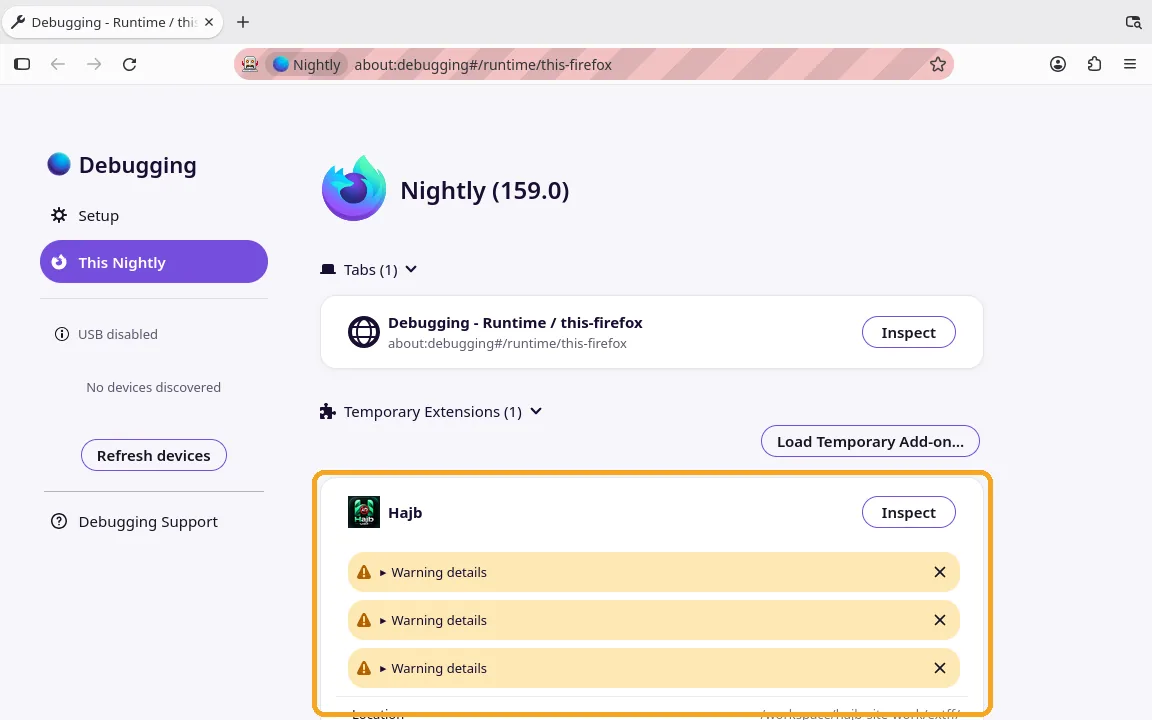
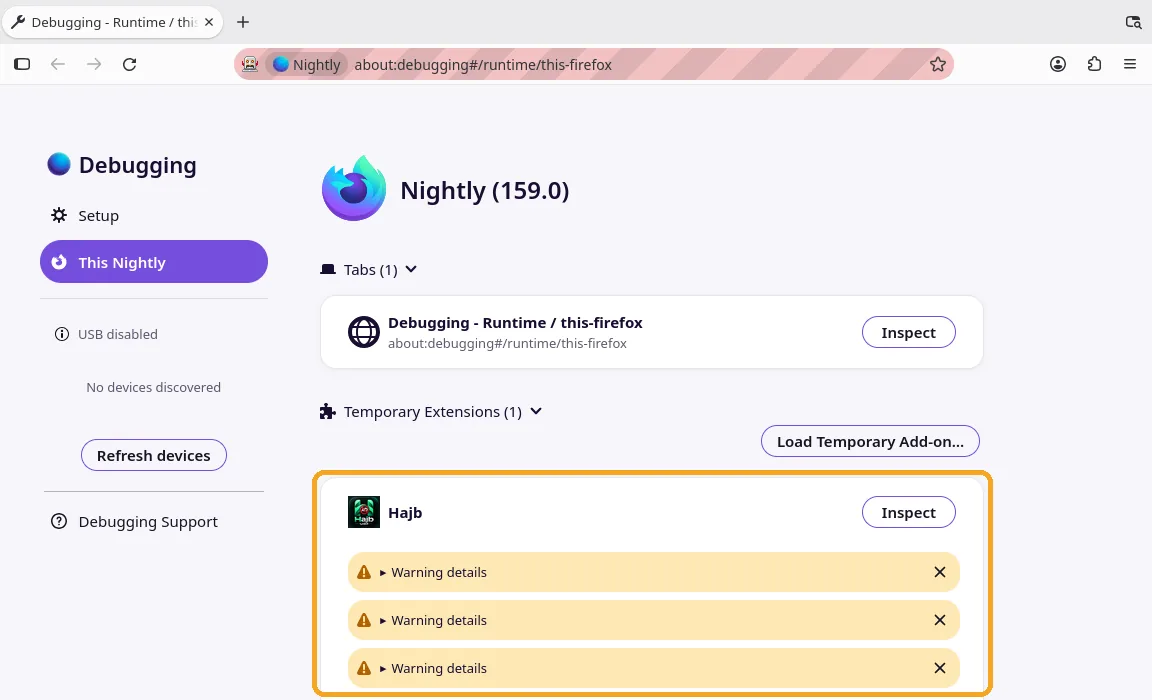
Crop Firefox shot, ignore pycache

diff --git a/public/index.html b/public/index.html
@@ -101,7 +101,7 @@
   <div class="before"><h3>قبل أن تبدأ</h3><ol><li>حمّل الملف المناسب من الأعلى.</li><li>للمتصفحات المبنية على Chromium: فكّ ضغط ملف zip، فيظهر مجلد اسمه <code>hajb</code>.</li><li>انقل المجلد إلى مكان ثابت مثل «المستندات». إذا حذفته أو نقلته لاحقًا، تتوقف الإضافة.</li></ol></div>
   <div class="tabs" data-tabs>
    <div class="tablist" role="tablist" aria-label="دليل التثبيت"><a role="tab" id="tab-chrome" href="#i-chrome" aria-controls="i-chrome">كروم</a><a role="tab" id="tab-edge" href="#i-edge" aria-controls="i-edge">إيدج</a><a role="tab" id="tab-brave" href="#i-brave" aria-controls="i-brave">بريف</a><a role="tab" id="tab-opera" href="#i-opera" aria-controls="i-opera">أوبرا</a><a role="tab" id="tab-vivaldi" href="#i-vivaldi" aria-controls="i-vivaldi">فيفالدي</a><a role="tab" id="tab-firefox" href="#i-firefox" aria-controls="i-firefox">فايرفوكس</a><a role="tab" id="tab-android" href="#i-android" aria-controls="i-android">أندرويد</a><a role="tab" id="tab-update" href="#i-update" aria-controls="i-update">التحديث والإزالة</a></div><section class="panel" id="i-chrome" role="tabpanel" aria-labelledby="tab-chrome"><h3>كروم</h3><ol class="steps"><li><h4>افتح صفحة الإضافات</h4><p>اكتب <code>chrome://extensions</code> في شريط العنوان واضغط Enter.</p></li><li><h4>فعّل وضع المطوّر</h4><p>اضغط مفتاح «وضع مطوّر البرامج» في أعلى الصفحة واتركه مفعّلًا.</p><figure class="ishot"><a href="/assets/img/install/chrome-devmode-ar.webp"><img src="/assets/img/install/chrome-devmode-ar.webp" alt="فعّل وضع المطوّر" width="1280" height="560" loading="lazy" decoding="async"></a></figure></li><li><h4>حمّل المجلد</h4><p>اضغط «تحميل إضافة تم فك حزمتها»، ثم اختر مجلد <code>hajb</code> الذي فيه ملف <code>manifest.json</code>.</p><figure class="ishot"><a href="/assets/img/install/chrome-load-ar.webp"><img src="/assets/img/install/chrome-load-ar.webp" alt="حمّل المجلد" width="1280" height="560" loading="lazy" decoding="async"></a></figure></li><li><h4>تأكّد من التثبيت</h4><p>تظهر بطاقة «Hajb 2.0.0». المفتاح الأزرق في أسفلها يعني أنها تعمل.</p><figure class="ishot"><a href="/assets/img/install/chrome-loaded-ar.webp"><img src="/assets/img/install/chrome-loaded-ar.webp" alt="تأكّد من التثبيت" width="1280" height="560" loading="lazy" decoding="async"></a></figure></li><li><h4>ثبّتها في شريط الأدوات</h4><p>اضغط أيقونة قطعة البازل بجانب شريط العنوان، ثم الدبوس بجانب Hajb. الاختصار Alt+Shift+H يخفي أي عنصر في الصفحة.</p></li></ol><p class="fine">لقطات من Chromium بالعربية. معرّف الإضافة (ID) سيختلف عندك، وهذا طبيعي.</p></section><section class="panel" id="i-edge" role="tabpanel" aria-labelledby="tab-edge"><h3>إيدج</h3><ol class="plain"><li>افتح <code>edge://extensions</code>.</li><li>فعّل «وضع المطور» من القائمة الجانبية (أسفلها على الحاسوب).</li><li>اضغط «تحميل الحزمة غير المضغوطة» واختر مجلد <code>hajb</code>.</li><li>فعّل الإضافة إن لم تكن مفعّلة، وثبّتها من زر الإضافات في الشريط.</li></ol><p class="fine">الصفحة تشبه صفحة كروم في اللقطات أعلاه، لكن مكان الأزرار وأسماءها قد يختلف قليلًا. لم نلتقط صورًا لهذا المتصفح. <a href="#i-chrome">كروم</a></p></section><section class="panel" id="i-brave" role="tabpanel" aria-labelledby="tab-brave"><h3>بريف</h3><ol class="plain"><li>افتح <code>brave://extensions</code>.</li><li>فعّل «Developer mode» في الأعلى.</li><li>اضغط «Load unpacked» واختر مجلد <code>hajb</code>.</li><li>يُفضَّل خفض مستوى Brave Shields في المواقع التي يتعارض فيها مع حاجب، أو تركه كما هو: الاثنان يعملان معًا.</li></ol><p class="fine">الصفحة تشبه صفحة كروم في اللقطات أعلاه، لكن مكان الأزرار وأسماءها قد يختلف قليلًا. لم نلتقط صورًا لهذا المتصفح. <a href="#i-chrome">كروم</a></p></section><section class="panel" id="i-opera" role="tabpanel" aria-labelledby="tab-opera"><h3>أوبرا</h3><ol class="plain"><li>افتح <code>opera://extensions</code>.</li><li>فعّل «Developer mode» في أعلى الصفحة.</li><li>اضغط «Load unpacked» واختر مجلد <code>hajb</code>.</li><li>أوقف مانع الإعلانات المدمج في أوبرا من الإعدادات حتى لا يعمل مانعان معًا.</li></ol><p class="fine">الصفحة تشبه صفحة كروم في اللقطات أعلاه، لكن مكان الأزرار وأسماءها قد يختلف قليلًا. لم نلتقط صورًا لهذا المتصفح. <a href="#i-chrome">كروم</a></p></section><section class="panel" id="i-vivaldi" role="tabpanel" aria-labelledby="tab-vivaldi"><h3>فيفالدي</h3><ol class="plain"><li>افتح <code>vivaldi://extensions</code>.</li><li>فعّل «Developer mode» في الأعلى.</li><li>اضغط «Load unpacked» واختر مجلد <code>hajb</code>.</li><li>يمكنك إيقاف حاجب الإعلانات المدمج في فيفالدي (الإعدادات ← الخصوصية والأمان) لتجنّب الحجب المزدوج.</li></ol><p class="fine">الصفحة تشبه صفحة كروم في اللقطات أعلاه، لكن مكان الأزرار وأسماءها قد يختلف قليلًا. لم نلتقط صورًا لهذا المتصفح. <a href="#i-chrome">كروم</a></p></section><section class="panel" id="i-firefox" role="tabpanel" aria-labelledby="tab-firefox"><h3>فايرفوكس</h3>
-     <p class="warn" role="note">ملف فايرفوكس غير موقّع من Mozilla بعد. لذلك يُثبَّت «إضافةً مؤقتة» تُحذف عند إغلاق فايرفوكس، ويجب تحميلها من جديد في كل مرة.</p><ol class="steps"><li><h4>افتح صفحة التصحيح</h4><p>اكتب <code>about:debugging#/runtime/this-firefox</code> في شريط العنوان، أو اضغط «This Firefox» في القائمة الجانبية.</p><figure class="ishot"><a href="/assets/img/install/firefox-debugging.webp"><img src="/assets/img/install/firefox-debugging.webp" alt="افتح صفحة التصحيح" width="1152" height="720" loading="lazy" decoding="async"></a></figure></li><li><h4>حمّل الإضافة المؤقتة</h4><p>اضغط «Load Temporary Add-on…» واختر ملف <code>Hajb-2.0.0-firefox.xpi</code>.</p></li><li><h4>تأكّد من التثبيت</h4><p>يظهر Hajb تحت «Temporary Extensions». التحذيرات الصفراء طبيعية: هي مفاتيح يعرفها كروم ولا يستعملها فايرفوكس.</p><figure class="ishot"><a href="/assets/img/install/firefox-loaded.webp"><img src="/assets/img/install/firefox-loaded.webp" alt="تأكّد من التثبيت" width="1152" height="720" loading="lazy" decoding="async"></a></figure></li><li><h4>اسمح لها بالعمل في كل المواقع</h4><p>افتح <code>about:addons</code> ← Hajb ← «Permissions»، وفعّل «Access your data for all websites». أو اضغط «السماح في كل المواقع» في إعدادات حاجب.</p></li></ol><p class="fine">لقطات من فايرفوكس Nightly بالإنجليزية. فايرفوكس العادي يعرض الصفحة نفسها، والخطوط المائلة في شريط العنوان تظهر فقط لأن المتصفح كان تحت التحكم الآلي أثناء التصوير.</p>
+     <p class="warn" role="note">ملف فايرفوكس غير موقّع من Mozilla بعد. لذلك يُثبَّت «إضافةً مؤقتة» تُحذف عند إغلاق فايرفوكس، ويجب تحميلها من جديد في كل مرة.</p><ol class="steps"><li><h4>افتح صفحة التصحيح</h4><p>اكتب <code>about:debugging#/runtime/this-firefox</code> في شريط العنوان، أو اضغط «This Firefox» في القائمة الجانبية.</p><figure class="ishot"><a href="/assets/img/install/firefox-debugging.webp"><img src="/assets/img/install/firefox-debugging.webp" alt="افتح صفحة التصحيح" width="1152" height="720" loading="lazy" decoding="async"></a></figure></li><li><h4>حمّل الإضافة المؤقتة</h4><p>اضغط «Load Temporary Add-on…» واختر ملف <code>Hajb-2.0.0-firefox.xpi</code>.</p></li><li><h4>تأكّد من التثبيت</h4><p>يظهر Hajb تحت «Temporary Extensions». التحذيرات الصفراء طبيعية: هي مفاتيح يعرفها كروم ولا يستعملها فايرفوكس.</p><figure class="ishot"><a href="/assets/img/install/firefox-loaded.webp"><img src="/assets/img/install/firefox-loaded.webp" alt="تأكّد من التثبيت" width="1152" height="700" loading="lazy" decoding="async"></a></figure></li><li><h4>اسمح لها بالعمل في كل المواقع</h4><p>افتح <code>about:addons</code> ← Hajb ← «Permissions»، وفعّل «Access your data for all websites». أو اضغط «السماح في كل المواقع» في إعدادات حاجب.</p></li></ol><p class="fine">لقطات من فايرفوكس Nightly بالإنجليزية. فايرفوكس العادي يعرض الصفحة نفسها، والخطوط المائلة في شريط العنوان تظهر فقط لأن المتصفح كان تحت التحكم الآلي أثناء التصوير.</p>
      <h4>تثبيت دائم دون توقيع (Developer Edition أو Nightly أو ESR فقط)</h4><ol class="plain"><li>افتح <code>about:config</code> واجعل <code>xpinstall.signatures.required</code> = <code>false</code>.</li><li>افتح <code>about:addons</code> ← أيقونة الترس ← «Install Add-on From File…» واختر ملف xpi.</li><li>فايرفوكس العادي لا يسمح بهذا الخيار. التثبيت الدائم فيه يحتاج توقيع Mozilla.</li></ol></section>
     <section class="panel" id="i-android" role="tabpanel" aria-labelledby="tab-android"><h3>أندرويد</h3>
      <p>كروم على أندرويد لا يدعم الإضافات. بعض المتصفحات المبنية على Chromium تدعمها، مثل Lemur وQuetta. لم نختبر حاجب عليها بعد، فاعتبرها تجربة.</p><ol class="plain"><li>ثبّت المتصفح من Google Play.</li><li>حمّل ملف <code>Hajb-2.0.0-chrome.zip</code> من هذا الموقع.</li><li>افتح قائمة المتصفح ← «الإضافات» (Extensions)، وفعّل وضع المطوّر إن طُلب.</li><li>اختر التحميل من ملف zip أو crx، ثم ملف حاجب. تختلف أسماء الأزرار من متصفح لآخر.</li></ol>

diff --git a/public/es/index.html b/public/es/index.html
@@ -101,7 +101,7 @@
   <div class="before"><h3>Antes de empezar</h3><ol><li>Descarga el archivo adecuado desde la parte superior de esta página.</li><li>Para navegadores Chromium: descomprime el .zip. Obtendrás una carpeta llamada <code>hajb</code>.</li><li>Mueve esa carpeta a un sitio fijo, como Documentos. Si la borras o la mueves después, la extensión deja de funcionar.</li></ol></div>
   <div class="tabs" data-tabs>
    <div class="tablist" role="tablist" aria-label="Guía de instalación"><a role="tab" id="tab-chrome" href="#i-chrome" aria-controls="i-chrome">Chrome</a><a role="tab" id="tab-edge" href="#i-edge" aria-controls="i-edge">Edge</a><a role="tab" id="tab-brave" href="#i-brave" aria-controls="i-brave">Brave</a><a role="tab" id="tab-opera" href="#i-opera" aria-controls="i-opera">Opera</a><a role="tab" id="tab-vivaldi" href="#i-vivaldi" aria-controls="i-vivaldi">Vivaldi</a><a role="tab" id="tab-firefox" href="#i-firefox" aria-controls="i-firefox">Firefox</a><a role="tab" id="tab-android" href="#i-android" aria-controls="i-android">Android</a><a role="tab" id="tab-update" href="#i-update" aria-controls="i-update">Actualizar y quitar</a></div><section class="panel" id="i-chrome" role="tabpanel" aria-labelledby="tab-chrome"><h3>Chrome</h3><ol class="steps"><li><h4>Abre la página de extensiones</h4><p>Escribe <code>chrome://extensions</code> en la barra de direcciones y pulsa Intro.</p></li><li><h4>Activa el modo desarrollador</h4><p>Activa «Modo Desarrollador» arriba a la derecha y déjalo activado.</p><figure class="ishot"><a href="/assets/img/install/chrome-devmode-es.webp"><img src="/assets/img/install/chrome-devmode-es.webp" alt="Activa el modo desarrollador" width="1280" height="560" loading="lazy" decoding="async"></a></figure></li><li><h4>Carga la carpeta</h4><p>Pulsa «Cargar descomprimida» y elige la carpeta <code>hajb</code> que contiene <code>manifest.json</code>.</p><figure class="ishot"><a href="/assets/img/install/chrome-load-es.webp"><img src="/assets/img/install/chrome-load-es.webp" alt="Carga la carpeta" width="1280" height="560" loading="lazy" decoding="async"></a></figure></li><li><h4>Comprueba la instalación</h4><p>Aparece una tarjeta «Hajb 2.0.0». El interruptor azul de abajo indica que está activa.</p><figure class="ishot"><a href="/assets/img/install/chrome-loaded-es.webp"><img src="/assets/img/install/chrome-loaded-es.webp" alt="Comprueba la instalación" width="1280" height="560" loading="lazy" decoding="async"></a></figure></li><li><h4>Fíjala en la barra</h4><p>Pulsa el icono de la pieza de puzle junto a la barra de direcciones y luego la chincheta junto a Hajb. Alt+Mayús+H oculta cualquier elemento de la página.</p></li></ol><p class="fine">Capturas de Chromium en español. El ID de tu extensión será distinto; es normal.</p></section><section class="panel" id="i-edge" role="tabpanel" aria-labelledby="tab-edge"><h3>Edge</h3><ol class="plain"><li>Abre <code>edge://extensions</code>.</li><li>Activa «Modo de desarrollador» en el panel izquierdo (abajo, en escritorio).</li><li>Pulsa «Cargar desempaquetada» y elige la carpeta <code>hajb</code>.</li><li>Comprueba que la extensión está activada y fíjala desde el botón Extensiones de la barra.</li></ol><p class="fine">La página se parece a la de Chrome en las capturas de arriba, pero la posición y el nombre de los botones pueden variar un poco. No hicimos capturas de este navegador. <a href="#i-chrome">Chrome</a></p></section><section class="panel" id="i-brave" role="tabpanel" aria-labelledby="tab-brave"><h3>Brave</h3><ol class="plain"><li>Abre <code>brave://extensions</code>.</li><li>Activa «Modo de desarrollador» arriba.</li><li>Pulsa «Cargar descomprimida» y elige la carpeta <code>hajb</code>.</li><li>Brave Shields y Hajb pueden funcionar juntos. Baja Shields en un sitio si chocan allí.</li></ol><p class="fine">La página se parece a la de Chrome en las capturas de arriba, pero la posición y el nombre de los botones pueden variar un poco. No hicimos capturas de este navegador. <a href="#i-chrome">Chrome</a></p></section><section class="panel" id="i-opera" role="tabpanel" aria-labelledby="tab-opera"><h3>Opera</h3><ol class="plain"><li>Abre <code>opera://extensions</code>.</li><li>Activa «Modo de desarrollador» arriba.</li><li>Pulsa «Cargar descomprimida» y elige la carpeta <code>hajb</code>.</li><li>Desactiva el bloqueador integrado de Opera en Ajustes para no tener dos bloqueadores a la vez.</li></ol><p class="fine">La página se parece a la de Chrome en las capturas de arriba, pero la posición y el nombre de los botones pueden variar un poco. No hicimos capturas de este navegador. <a href="#i-chrome">Chrome</a></p></section><section class="panel" id="i-vivaldi" role="tabpanel" aria-labelledby="tab-vivaldi"><h3>Vivaldi</h3><ol class="plain"><li>Abre <code>vivaldi://extensions</code>.</li><li>Activa «Modo de desarrollador» arriba.</li><li>Pulsa «Cargar descomprimida» y elige la carpeta <code>hajb</code>.</li><li>Puedes desactivar el bloqueador integrado de Vivaldi (Ajustes > Privacidad y seguridad) para evitar el doble bloqueo.</li></ol><p class="fine">La página se parece a la de Chrome en las capturas de arriba, pero la posición y el nombre de los botones pueden variar un poco. No hicimos capturas de este navegador. <a href="#i-chrome">Chrome</a></p></section><section class="panel" id="i-firefox" role="tabpanel" aria-labelledby="tab-firefox"><h3>Firefox</h3>
-     <p class="warn" role="note">El archivo de Firefox aún no está firmado por Mozilla. Se instala como complemento temporal, que Firefox borra al cerrarse, así que hay que cargarlo de nuevo cada vez.</p><ol class="steps"><li><h4>Abre la página de depuración</h4><p>Escribe <code>about:debugging#/runtime/this-firefox</code> en la barra de direcciones, o pulsa «Este Firefox» (This Firefox) en la barra lateral.</p><figure class="ishot"><a href="/assets/img/install/firefox-debugging.webp"><img src="/assets/img/install/firefox-debugging.webp" alt="Abre la página de depuración" width="1152" height="720" loading="lazy" decoding="async"></a></figure></li><li><h4>Carga el complemento temporal</h4><p>Pulsa «Cargar complemento temporal…» (Load Temporary Add-on…) y elige <code>Hajb-2.0.0-firefox.xpi</code>.</p></li><li><h4>Comprueba la instalación</h4><p>Hajb aparece en «Extensiones temporales». Los avisos amarillos son normales: son claves de Chrome que Firefox ignora.</p><figure class="ishot"><a href="/assets/img/install/firefox-loaded.webp"><img src="/assets/img/install/firefox-loaded.webp" alt="Comprueba la instalación" width="1152" height="720" loading="lazy" decoding="async"></a></figure></li><li><h4>Permítela en todos los sitios</h4><p>Abre <code>about:addons</code> > Hajb > «Permisos» y activa «Acceder a tus datos de todos los sitios web», o pulsa «Permitir en todos los sitios» en los ajustes de Hajb.</p></li></ol><p class="fine">Capturas de Firefox Nightly en inglés. El Firefox normal muestra la misma página; la barra de direcciones a rayas solo aparece porque el navegador estaba automatizado durante la captura.</p>
+     <p class="warn" role="note">El archivo de Firefox aún no está firmado por Mozilla. Se instala como complemento temporal, que Firefox borra al cerrarse, así que hay que cargarlo de nuevo cada vez.</p><ol class="steps"><li><h4>Abre la página de depuración</h4><p>Escribe <code>about:debugging#/runtime/this-firefox</code> en la barra de direcciones, o pulsa «Este Firefox» (This Firefox) en la barra lateral.</p><figure class="ishot"><a href="/assets/img/install/firefox-debugging.webp"><img src="/assets/img/install/firefox-debugging.webp" alt="Abre la página de depuración" width="1152" height="720" loading="lazy" decoding="async"></a></figure></li><li><h4>Carga el complemento temporal</h4><p>Pulsa «Cargar complemento temporal…» (Load Temporary Add-on…) y elige <code>Hajb-2.0.0-firefox.xpi</code>.</p></li><li><h4>Comprueba la instalación</h4><p>Hajb aparece en «Extensiones temporales». Los avisos amarillos son normales: son claves de Chrome que Firefox ignora.</p><figure class="ishot"><a href="/assets/img/install/firefox-loaded.webp"><img src="/assets/img/install/firefox-loaded.webp" alt="Comprueba la instalación" width="1152" height="700" loading="lazy" decoding="async"></a></figure></li><li><h4>Permítela en todos los sitios</h4><p>Abre <code>about:addons</code> > Hajb > «Permisos» y activa «Acceder a tus datos de todos los sitios web», o pulsa «Permitir en todos los sitios» en los ajustes de Hajb.</p></li></ol><p class="fine">Capturas de Firefox Nightly en inglés. El Firefox normal muestra la misma página; la barra de direcciones a rayas solo aparece porque el navegador estaba automatizado durante la captura.</p>
      <h4>Instalación permanente sin firma (solo Developer Edition, Nightly o ESR)</h4><ol class="plain"><li>Abre <code>about:config</code> y pon <code>xpinstall.signatures.required</code> en <code>false</code>.</li><li>Abre <code>about:addons</code> > icono del engranaje > «Instalar complemento desde archivo…» y elige el .xpi.</li><li>El Firefox normal no lo permite. Allí, la instalación permanente necesita la firma de Mozilla.</li></ol></section>
     <section class="panel" id="i-android" role="tabpanel" aria-labelledby="tab-android"><h3>Android</h3>
      <p>Chrome para Android no admite extensiones. Algunos navegadores basados en Chromium sí, como Lemur y Quetta. Aún no hemos probado Hajb en ellos, así que tómalo como un experimento.</p><ol class="plain"><li>Instala el navegador desde Google Play.</li><li>Descarga <code>Hajb-2.0.0-chrome.zip</code> desde esta web.</li><li>Abre el menú del navegador > Extensiones y activa el modo desarrollador si lo pide.</li><li>Elige cargar desde un archivo .zip o .crx y selecciona el archivo de Hajb. Los nombres de los botones cambian según el navegador.</li></ol>

diff --git a/public/en/index.html b/public/en/index.html
@@ -101,7 +101,7 @@
   <div class="before"><h3>Before you start</h3><ol><li>Download the right file from the top of this page.</li><li>For Chromium browsers: unzip the .zip file. You get a folder named <code>hajb</code>.</li><li>Move that folder to a stable place such as Documents. If you delete or move it later, the extension stops working.</li></ol></div>
   <div class="tabs" data-tabs>
    <div class="tablist" role="tablist" aria-label="Install guide"><a role="tab" id="tab-chrome" href="#i-chrome" aria-controls="i-chrome">Chrome</a><a role="tab" id="tab-edge" href="#i-edge" aria-controls="i-edge">Edge</a><a role="tab" id="tab-brave" href="#i-brave" aria-controls="i-brave">Brave</a><a role="tab" id="tab-opera" href="#i-opera" aria-controls="i-opera">Opera</a><a role="tab" id="tab-vivaldi" href="#i-vivaldi" aria-controls="i-vivaldi">Vivaldi</a><a role="tab" id="tab-firefox" href="#i-firefox" aria-controls="i-firefox">Firefox</a><a role="tab" id="tab-android" href="#i-android" aria-controls="i-android">Android</a><a role="tab" id="tab-update" href="#i-update" aria-controls="i-update">Update and remove</a></div><section class="panel" id="i-chrome" role="tabpanel" aria-labelledby="tab-chrome"><h3>Chrome</h3><ol class="steps"><li><h4>Open the extensions page</h4><p>Type <code>chrome://extensions</code> in the address bar and press Enter.</p></li><li><h4>Turn on Developer mode</h4><p>Switch on "Developer mode" at the top right and leave it on.</p><figure class="ishot"><a href="/assets/img/install/chrome-devmode-en.webp"><img src="/assets/img/install/chrome-devmode-en.webp" alt="Turn on Developer mode" width="1280" height="560" loading="lazy" decoding="async"></a></figure></li><li><h4>Load the folder</h4><p>Click "Load unpacked" and choose the <code>hajb</code> folder that contains <code>manifest.json</code>.</p><figure class="ishot"><a href="/assets/img/install/chrome-load-en.webp"><img src="/assets/img/install/chrome-load-en.webp" alt="Load the folder" width="1280" height="560" loading="lazy" decoding="async"></a></figure></li><li><h4>Check that it is installed</h4><p>A "Hajb 2.0.0" card appears. The blue switch at the bottom means it is on.</p><figure class="ishot"><a href="/assets/img/install/chrome-loaded-en.webp"><img src="/assets/img/install/chrome-loaded-en.webp" alt="Check that it is installed" width="1280" height="560" loading="lazy" decoding="async"></a></figure></li><li><h4>Pin it to the toolbar</h4><p>Click the puzzle-piece icon next to the address bar, then the pin next to Hajb. Alt+Shift+H hides any element on the page.</p></li></ol><p class="fine">Screenshots from Chromium in English. Your extension ID will be different; that is normal.</p></section><section class="panel" id="i-edge" role="tabpanel" aria-labelledby="tab-edge"><h3>Edge</h3><ol class="plain"><li>Open <code>edge://extensions</code>.</li><li>Turn on "Developer mode" in the left panel (at the bottom on desktop).</li><li>Click "Load unpacked" and choose the <code>hajb</code> folder.</li><li>Make sure the extension is switched on, and pin it from the Extensions button in the toolbar.</li></ol><p class="fine">The page looks like the Chrome page in the screenshots above, but button positions and labels can differ slightly. We did not capture screenshots for this browser. <a href="#i-chrome">Chrome</a></p></section><section class="panel" id="i-brave" role="tabpanel" aria-labelledby="tab-brave"><h3>Brave</h3><ol class="plain"><li>Open <code>brave://extensions</code>.</li><li>Turn on "Developer mode" at the top.</li><li>Click "Load unpacked" and choose the <code>hajb</code> folder.</li><li>Brave Shields and Hajb can run together. Lower Shields on a site if the two conflict there.</li></ol><p class="fine">The page looks like the Chrome page in the screenshots above, but button positions and labels can differ slightly. We did not capture screenshots for this browser. <a href="#i-chrome">Chrome</a></p></section><section class="panel" id="i-opera" role="tabpanel" aria-labelledby="tab-opera"><h3>Opera</h3><ol class="plain"><li>Open <code>opera://extensions</code>.</li><li>Turn on "Developer mode" at the top of the page.</li><li>Click "Load unpacked" and choose the <code>hajb</code> folder.</li><li>Turn off Opera's built-in ad blocker in Settings so two blockers don't run at once.</li></ol><p class="fine">The page looks like the Chrome page in the screenshots above, but button positions and labels can differ slightly. We did not capture screenshots for this browser. <a href="#i-chrome">Chrome</a></p></section><section class="panel" id="i-vivaldi" role="tabpanel" aria-labelledby="tab-vivaldi"><h3>Vivaldi</h3><ol class="plain"><li>Open <code>vivaldi://extensions</code>.</li><li>Turn on "Developer mode" at the top.</li><li>Click "Load unpacked" and choose the <code>hajb</code> folder.</li><li>You can turn off Vivaldi's built-in blocker (Settings > Privacy and Security) to avoid double blocking.</li></ol><p class="fine">The page looks like the Chrome page in the screenshots above, but button positions and labels can differ slightly. We did not capture screenshots for this browser. <a href="#i-chrome">Chrome</a></p></section><section class="panel" id="i-firefox" role="tabpanel" aria-labelledby="tab-firefox"><h3>Firefox</h3>
-     <p class="warn" role="note">The Firefox file is not signed by Mozilla yet. It installs as a temporary add-on, which Firefox removes when it closes, so you load it again each time.</p><ol class="steps"><li><h4>Open the debugging page</h4><p>Type <code>about:debugging#/runtime/this-firefox</code> in the address bar, or click "This Firefox" in the sidebar.</p><figure class="ishot"><a href="/assets/img/install/firefox-debugging.webp"><img src="/assets/img/install/firefox-debugging.webp" alt="Open the debugging page" width="1152" height="720" loading="lazy" decoding="async"></a></figure></li><li><h4>Load the temporary add-on</h4><p>Click "Load Temporary Add-on…" and choose <code>Hajb-2.0.0-firefox.xpi</code>.</p></li><li><h4>Check that it is installed</h4><p>Hajb appears under "Temporary Extensions". The yellow warnings are normal: they are Chrome keys that Firefox ignores.</p><figure class="ishot"><a href="/assets/img/install/firefox-loaded.webp"><img src="/assets/img/install/firefox-loaded.webp" alt="Check that it is installed" width="1152" height="720" loading="lazy" decoding="async"></a></figure></li><li><h4>Allow it on all sites</h4><p>Open <code>about:addons</code> > Hajb > "Permissions" and turn on "Access your data for all websites", or press "Allow on all sites" in Hajb's settings.</p></li></ol><p class="fine">Screenshots from Firefox Nightly in English. Regular Firefox shows the same page; the striped address bar only appears because the browser was under automation while we captured it.</p>
+     <p class="warn" role="note">The Firefox file is not signed by Mozilla yet. It installs as a temporary add-on, which Firefox removes when it closes, so you load it again each time.</p><ol class="steps"><li><h4>Open the debugging page</h4><p>Type <code>about:debugging#/runtime/this-firefox</code> in the address bar, or click "This Firefox" in the sidebar.</p><figure class="ishot"><a href="/assets/img/install/firefox-debugging.webp"><img src="/assets/img/install/firefox-debugging.webp" alt="Open the debugging page" width="1152" height="720" loading="lazy" decoding="async"></a></figure></li><li><h4>Load the temporary add-on</h4><p>Click "Load Temporary Add-on…" and choose <code>Hajb-2.0.0-firefox.xpi</code>.</p></li><li><h4>Check that it is installed</h4><p>Hajb appears under "Temporary Extensions". The yellow warnings are normal: they are Chrome keys that Firefox ignores.</p><figure class="ishot"><a href="/assets/img/install/firefox-loaded.webp"><img src="/assets/img/install/firefox-loaded.webp" alt="Check that it is installed" width="1152" height="700" loading="lazy" decoding="async"></a></figure></li><li><h4>Allow it on all sites</h4><p>Open <code>about:addons</code> > Hajb > "Permissions" and turn on "Access your data for all websites", or press "Allow on all sites" in Hajb's settings.</p></li></ol><p class="fine">Screenshots from Firefox Nightly in English. Regular Firefox shows the same page; the striped address bar only appears because the browser was under automation while we captured it.</p>
      <h4>Permanent install without signing (Developer Edition, Nightly or ESR only)</h4><ol class="plain"><li>Open <code>about:config</code> and set <code>xpinstall.signatures.required</code> to <code>false</code>.</li><li>Open <code>about:addons</code> > gear icon > "Install Add-on From File…" and choose the .xpi file.</li><li>Regular Firefox does not allow this. A permanent install there needs Mozilla's signature.</li></ol></section>
     <section class="panel" id="i-android" role="tabpanel" aria-labelledby="tab-android"><h3>Android</h3>
      <p>Chrome for Android does not support extensions. Some Chromium-based browsers do, such as Lemur and Quetta. We have not tested Hajb on them yet, so treat this as an experiment.</p><ol class="plain"><li>Install the browser from Google Play.</li><li>Download <code>Hajb-2.0.0-chrome.zip</code> from this site.</li><li>Open the browser menu > Extensions, and turn on developer mode if asked.</li><li>Choose to load from a .zip or .crx file, then pick the Hajb file. Button names differ between browsers.</li></ol>
